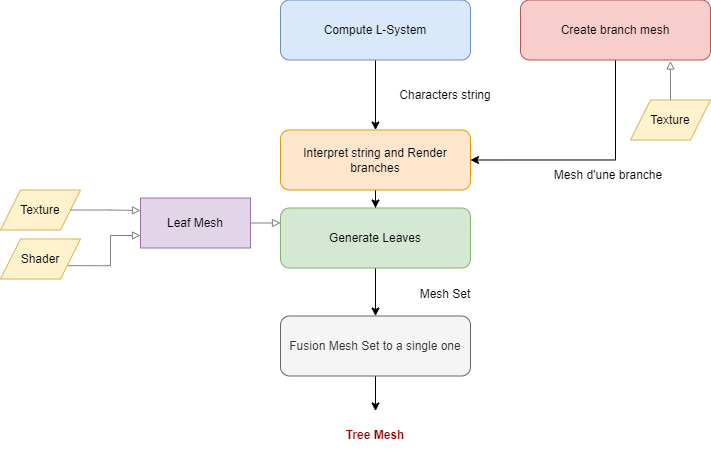
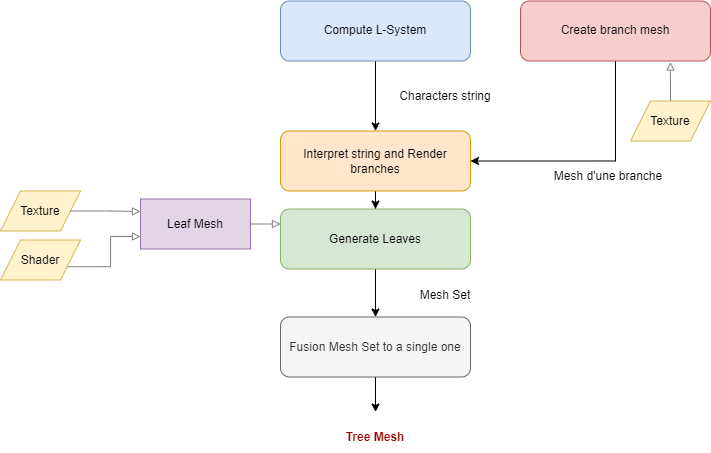
Final fix in Readme.md

diff --git a/README.md b/README.md
@@ -7,7 +7,7 @@ This is a procedural tree generator on Unity based on **L-systems**. This projec
 This is only a prototype, but the main goal of this project is to generate 3D tree models using L-Systems. Moreover we want to build a tool that can be used by graphic designer to create personalized tree more easily.
 
 ### Project Pipeline
-![project pipeline](https://github.com/Tree_Generation_Unity/images/pipeline.png)
+![project pipeline](images/pipeline.png)
 
 ## Team
 * Nicolas Vivier
